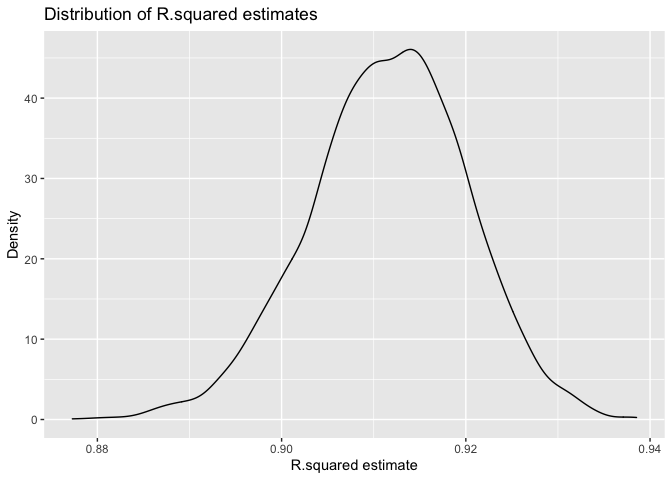
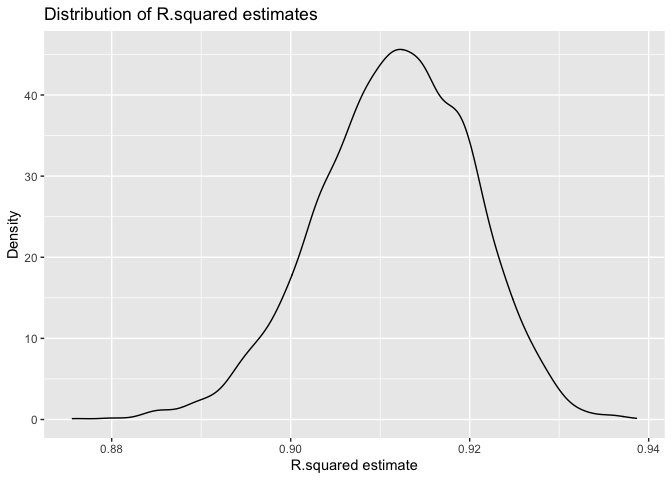
Finished hw6

diff --git a/p8105_hw6_sc4935.md b/p8105_hw6_sc4935.md
@@ -289,8 +289,8 @@ childbwt_tidy %>%
 ![](p8105_hw6_sc4935_files/figure-gfm/unnamed-chunk-5-1.png)<!-- -->
 
 So, we can see the residuals against predicted values is symmetric about
-y=0. And the Residual Plot has a mostly CONSTANT pattern across the X
-axis.
+X-axis(y = 0). And the residual plot has a mostly CONSTANT pattern
+across the X-axis.
 
 Compare your model to two others
 
@@ -319,13 +319,13 @@ cv_df %>% pull(train) %>% .[[1]] %>% as_tibble
     ##  1 2          34      51  3629   177      35 1        39.9 0             13
     ##  2 1          34      48  3062   156      65 2        25.9 0             14
     ##  3 2          36      50  3345   148      85 1        39.9 0             12
-    ##  4 1          34      52  3062   157      55 1        40   0             14
-    ##  5 2          34      52  3374   156       5 1        41.6 0             13
-    ##  6 1          33      52  3374   129      55 1        40.7 0             12
-    ##  7 2          33      46  2523   126      96 2        40.3 0             14
-    ##  8 2          33      49  2778   140       5 1        37.4 0             12
-    ##  9 2          35      51  3317   130      55 1        43.4 0             13
-    ## 10 1          35      51  3459   146      55 1        39.4 0             12
+    ##  4 2          34      52  3374   156       5 1        41.6 0             13
+    ##  5 1          33      52  3374   129      55 1        40.7 0             12
+    ##  6 2          33      46  2523   126      96 2        40.3 0             14
+    ##  7 2          33      49  2778   140       5 1        37.4 0             12
+    ##  8 1          36      52  3515   146      85 1        40.3 0             11
+    ##  9 1          33      50  3459   169      75 2        40.7 0             12
+    ## 10 2          35      51  3317   130      55 1        43.4 0             13
     ## # … with 3,463 more rows, and 10 more variables: mheight <dbl>, momage <dbl>,
     ## #   mrace <fct>, parity <dbl>, pnumlbw <dbl>, pnumsga <dbl>, ppbmi <dbl>,
     ## #   ppwt <dbl>, smoken <dbl>, wtgain <dbl>
@@ -337,16 +337,16 @@ cv_df %>% pull(test) %>% .[[1]] %>% as_tibble
     ## # A tibble: 869 × 20
     ##    babysex bhead blength   bwt delwt fincome frace gaweeks malform menarche
     ##    <fct>   <dbl>   <dbl> <dbl> <dbl>   <dbl> <fct>   <dbl> <fct>      <dbl>
-    ##  1 1          36      52  3515   146      85 1        40.3 0             11
-    ##  2 1          33      50  3459   169      75 2        40.7 0             12
-    ##  3 2          35      53  3345   127      65 2        39.7 0             14
-    ##  4 2          35      50  3175   140      85 2        40.6 0             14
-    ##  5 1          34      63  3175   143      25 1        41.9 0             13
-    ##  6 2          34      49  3118   161      45 2        38.9 0             10
-    ##  7 2          33      54  3062   134      65 1        40.4 0             12
-    ##  8 2          36      51  3317   136      65 1        42.6 0             14
-    ##  9 1          35      51  3147   165      65 1        40.1 0             13
-    ## 10 2          33      51  3289   155      65 1        41.6 0             15
+    ##  1 1          34      52  3062   157      55 1        40   0             14
+    ##  2 2          35      48  3175   158      75 1        39.7 0             13
+    ##  3 1          36      53  3629   147      75 1        41.3 0             11
+    ##  4 2          33      49  2551   120      75 2        38.1 0             11
+    ##  5 1          34      52  3203   134      25 1        41.1 0             14
+    ##  6 2          35      50  3175   140      85 2        40.6 0             14
+    ##  7 2          33      49  2948   129      25 1        41   0             13
+    ##  8 2          34      49  3118   161      45 2        38.9 0             10
+    ##  9 1          38      53  3799   167      75 1        39.9 0             12
+    ## 10 2          33      54  3062   134      65 1        40.4 0             12
     ## # … with 859 more rows, and 10 more variables: mheight <dbl>, momage <dbl>,
     ## #   mrace <fct>, parity <dbl>, pnumlbw <dbl>, pnumsga <dbl>, ppbmi <dbl>,
     ## #   ppwt <dbl>, smoken <dbl>, wtgain <dbl>
@@ -446,7 +446,7 @@ boot_straps =
 
 | term        | boot\_se |
 |:------------|---------:|
-| (Intercept) |    0.255 |
+| (Intercept) |    0.251 |
 | tmin        |    0.017 |
 
 Log function
@@ -468,16 +468,16 @@ boot_straps_log
     ## # A tibble: 5,000 × 4
     ##    .id   intercept  tmin log_beta
     ##    <chr>     <dbl> <dbl>    <dbl>
-    ##  1 0001       6.99  1.06     2.01
-    ##  2 0002       6.84  1.05     1.97
-    ##  3 0003       7.55  1.04     2.06
-    ##  4 0004       7.44  1.02     2.03
-    ##  5 0005       7.46  1.03     2.04
-    ##  6 0006       7.19  1.04     2.02
-    ##  7 0007       7.17  1.04     2.01
-    ##  8 0008       6.81  1.04     1.96
-    ##  9 0009       7.14  1.04     2.01
-    ## 10 0010       7.43  1.03     2.03
+    ##  1 0001       6.98  1.06     2.00
+    ##  2 0002       6.80  1.06     1.97
+    ##  3 0003       7.39  1.05     2.05
+    ##  4 0004       7.02  1.06     2.00
+    ##  5 0005       6.97  1.05     1.99
+    ##  6 0006       6.94  1.05     1.99
+    ##  7 0007       7.04  1.05     2.00
+    ##  8 0008       7.19  1.03     2.00
+    ##  9 0009       6.93  1.07     2.01
+    ## 10 0010       7.23  1.03     2.01
     ## # … with 4,990 more rows
 
 ``` r
@@ -491,7 +491,7 @@ boot_straps_log %>%
 
 | lower\_quantile | upper\_quantile |
 |----------------:|----------------:|
-|           1.965 |           2.058 |
+|           1.965 |            2.06 |
 
 ``` r
 boot_straps_log %>%  
@@ -525,16 +525,16 @@ boot_straps_r
     ## # A tibble: 5,000 × 13
     ##    .id   r.squared adj.r.squared sigma statistic   p.value    df logLik   AIC
     ##    <chr>     <dbl>         <dbl> <dbl>     <dbl>     <dbl> <dbl>  <dbl> <dbl>
-    ##  1 0001      0.906         0.905  3.10     3489. 2.98e-188     1  -930. 1867.
-    ##  2 0002      0.915         0.915  2.88     3901. 2.82e-196     1  -903. 1811.
-    ##  3 0003      0.922         0.922  2.70     4303. 2.21e-203     1  -879. 1764.
-    ##  4 0004      0.913         0.913  2.94     3816. 1.11e-194     1  -910. 1826.
-    ##  5 0005      0.924         0.924  2.74     4438. 1.24e-205     1  -885. 1777.
-    ##  6 0006      0.902         0.902  3.10     3342. 3.48e-185     1  -930. 1865.
-    ##  7 0007      0.914         0.914  2.90     3853. 2.25e-195     1  -905. 1816.
-    ##  8 0008      0.934         0.933  2.69     5101. 7.89e-216     1  -878. 1761.
-    ##  9 0009      0.914         0.914  2.91     3867. 1.23e-195     1  -907. 1819.
-    ## 10 0010      0.915         0.915  2.93     3904. 2.51e-196     1  -909. 1823.
+    ##  1 0001      0.909         0.909  2.96     3644. 2.29e-191     1  -914. 1833.
+    ##  2 0002      0.901         0.901  3.05     3302. 2.50e-184     1  -924. 1854.
+    ##  3 0003      0.917         0.917  2.88     4033. 1.12e-198     1  -904. 1813.
+    ##  4 0004      0.903         0.903  3.12     3379. 5.69e-186     1  -933. 1872.
+    ##  5 0005      0.899         0.899  3.05     3231. 8.56e-183     1  -924. 1853.
+    ##  6 0006      0.921         0.920  2.76     4215. 7.19e-202     1  -887. 1780.
+    ##  7 0007      0.914         0.913  2.84     3843. 3.35e-195     1  -897. 1801.
+    ##  8 0008      0.912         0.912  2.87     3759. 1.30e-193     1  -901. 1808.
+    ##  9 0009      0.923         0.922  2.87     4325. 9.43e-204     1  -902. 1809.
+    ## 10 0010      0.907         0.906  2.86     3524. 5.64e-189     1  -901. 1807.
     ## # … with 4,990 more rows, and 4 more variables: BIC <dbl>, deviance <dbl>,
     ## #   df.residual <int>, nobs <int>
 
